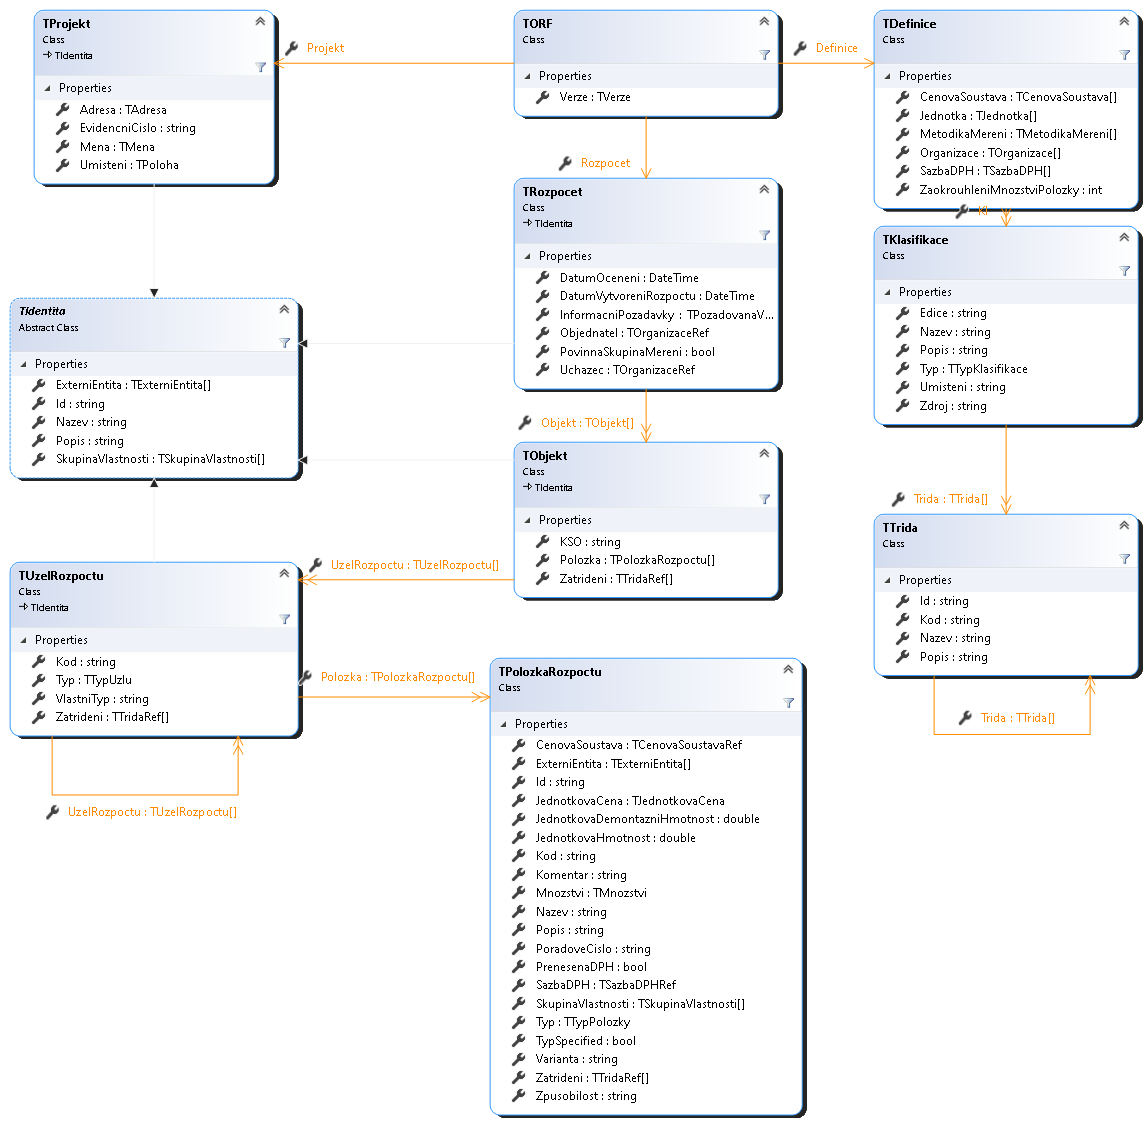
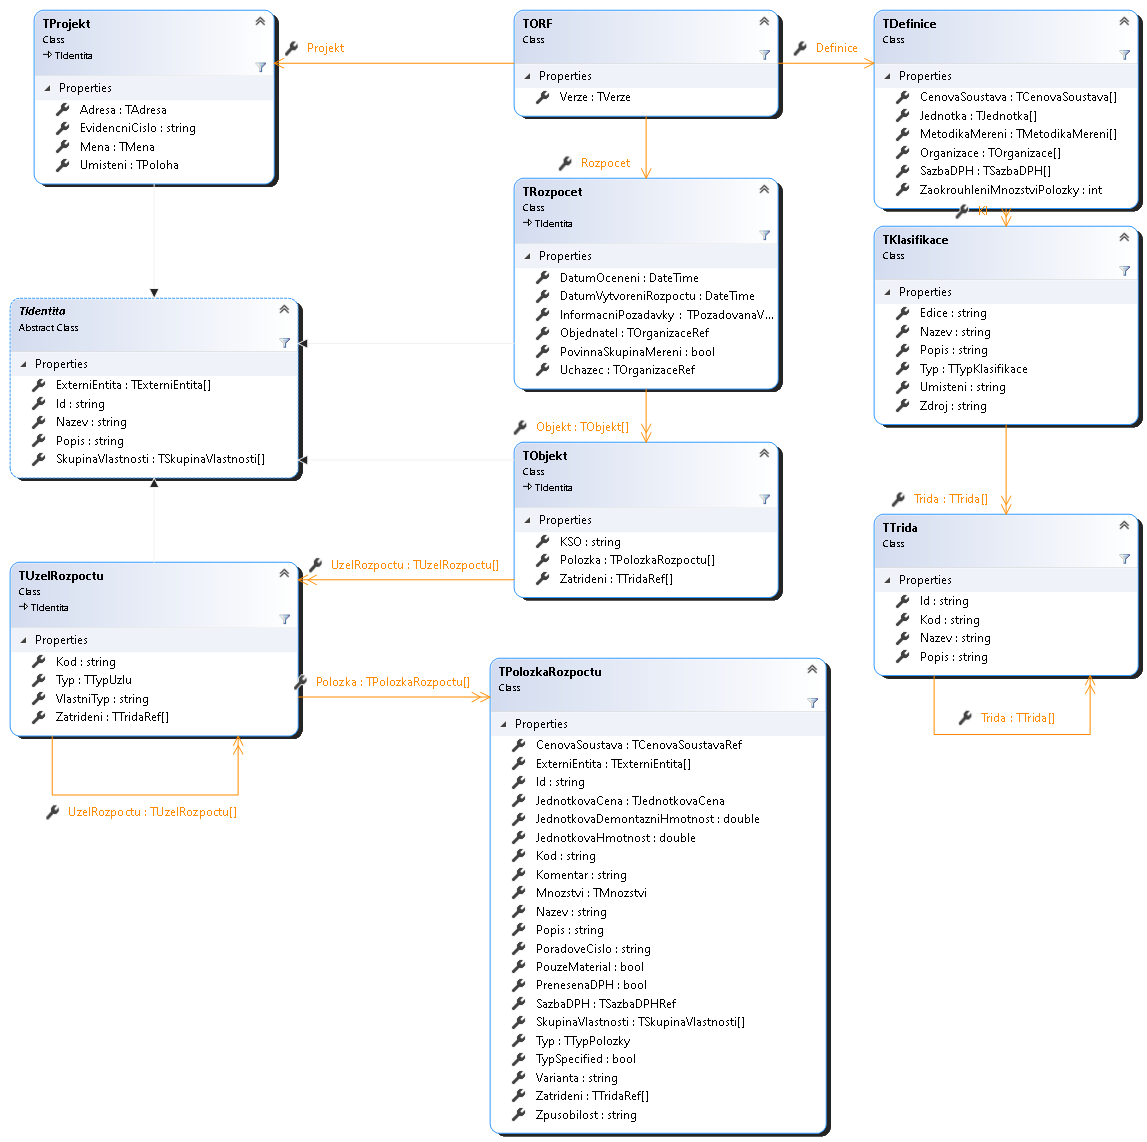
Zahrnuty připomínky

diff --git a/ORF.XML/Schema/ORF_v0_1.cs b/ORF.XML/Schema/ORF_v0_1.cs
@@ -1608,8 +1608,8 @@ public partial class TKlasifikace {
 public enum TTypKlasifikace {
     
     /// <remarks/>
-    [System.Xml.Serialization.XmlEnumAttribute("CC-CZ")]
-    CCCZ,
+    [System.Xml.Serialization.XmlEnumAttribute("CZ-CC")]
+    CZCC,
     
     /// <remarks/>
     CPV,
@@ -1618,7 +1618,22 @@ public enum TTypKlasifikace {
     CPA,
     
     /// <remarks/>
-    CCI,
+    CCI_STAVEBNI_ENTITY,
+    
+    /// <remarks/>
+    CCI_VYBUDOVANE_PROSTORY,
+    
+    /// <remarks/>
+    CCI_FUNKCNI_SYSTEMY,
+    
+    /// <remarks/>
+    CCI_KONSTRUKCNI_SYSTEMY,
+    
+    /// <remarks/>
+    CCI_KOMPONENTY,
+    
+    /// <remarks/>
+    CCI_KOMPLEXY,
     
     /// <remarks/>
     Vlastni,
@@ -1915,7 +1930,7 @@ public partial class TPozadovanaVlastnost {
     
     private TTypHodnoty typHodnotyField;
     
-    private string identifikatorDSSField;
+    private string datovyProfilField;
     
     /// <remarks/>
     public string Popis {
@@ -1983,12 +1998,12 @@ public partial class TPozadovanaVlastnost {
     
     /// <remarks/>
     [System.Xml.Serialization.XmlAttributeAttribute()]
-    public string IdentifikatorDSS {
+    public string DatovyProfil {
         get {
-            return this.identifikatorDSSField;
+            return this.datovyProfilField;
         }
         set {
-            this.identifikatorDSSField = value;
+            this.datovyProfilField = value;
         }
     }
 }
@@ -2236,6 +2251,10 @@ public partial class TPolozkaRozpoctu {
     
     private bool typFieldSpecified;
     
+    private bool pouzeMaterialField;
+    
+    private bool pouzeMaterialFieldSpecified;
+    
     private double jednotkovaHmotnostField;
     
     private bool jednotkovaHmotnostFieldSpecified;
@@ -2408,6 +2427,28 @@ public partial class TPolozkaRozpoctu {
         }
         set {
             this.typFieldSpecified = value;
+        }
+    }
+    
+    /// <remarks/>
+    [System.Xml.Serialization.XmlAttributeAttribute()]
+    public bool PouzeMaterial {
+        get {
+            return this.pouzeMaterialField;
+        }
+        set {
+            this.pouzeMaterialField = value;
+        }
+    }
+    
+    /// <remarks/>
+    [System.Xml.Serialization.XmlIgnoreAttribute()]
+    public bool PouzeMaterialSpecified {
+        get {
+            return this.pouzeMaterialFieldSpecified;
+        }
+        set {
+            this.pouzeMaterialFieldSpecified = value;
         }
     }
     
